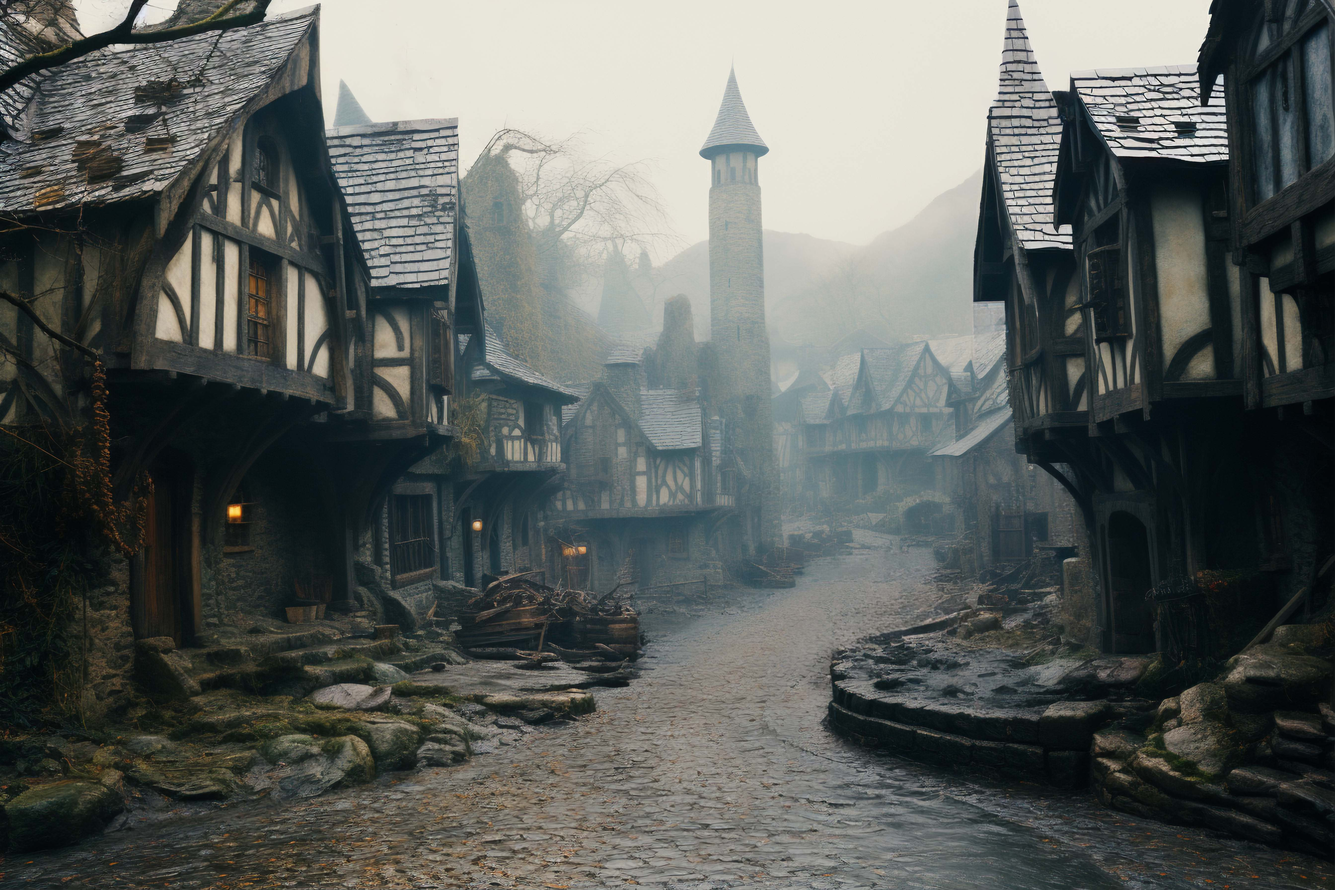
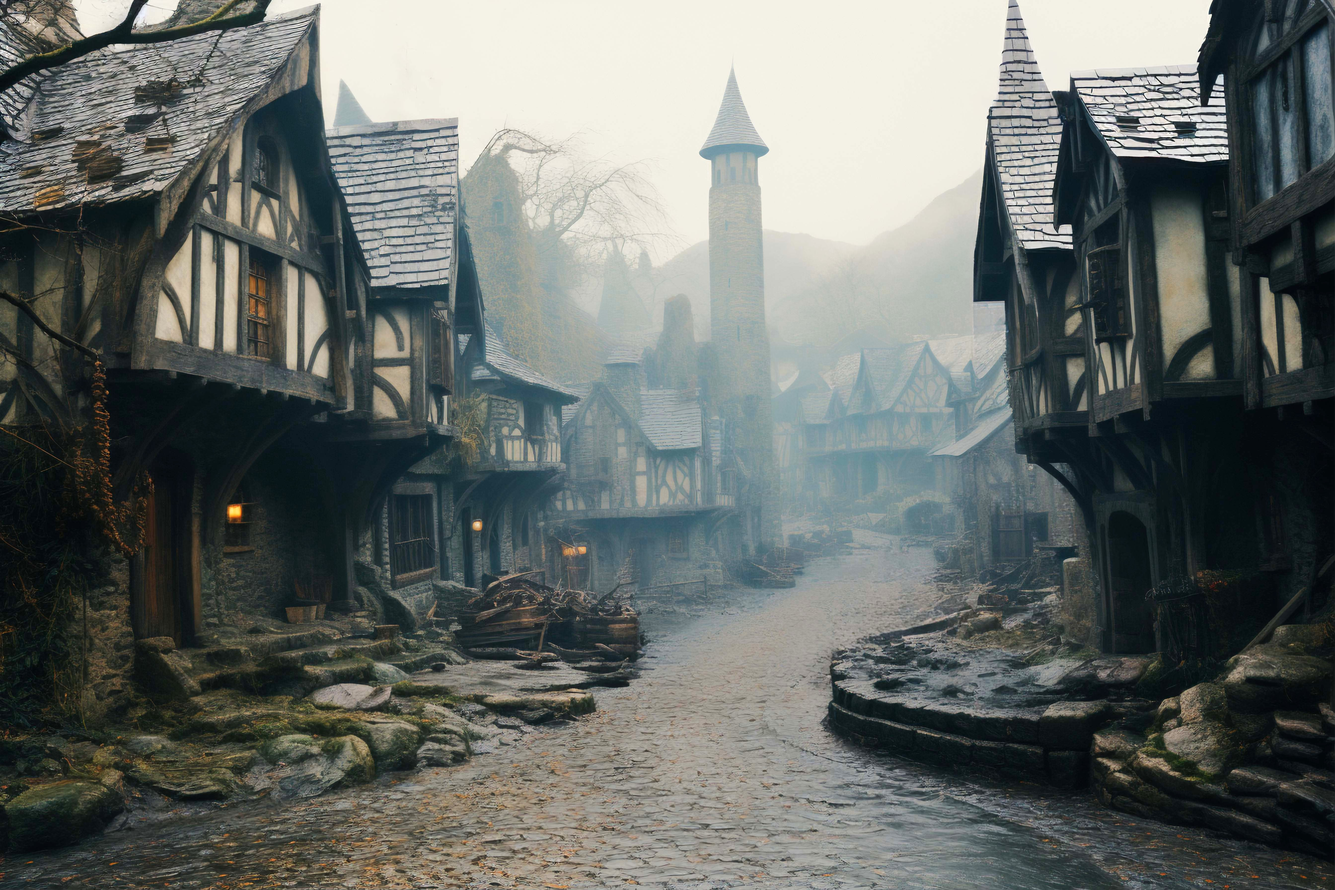
Added Character menu andthematic webpage background

diff --git a/streamlit_app.py b/streamlit_app.py
@@ -11,6 +11,7 @@ from orchestrator.story import STARTING_STATE
 
 
 PLAYER_BG_PATH = Path("UI-Assets/town-square.jpg")
+APP_BG_PATH = Path("UI-Assets/FantasyPort.jpg")
 
 
 def _parse_keys(raw: str) -> List[str]:
@@ -65,30 +66,129 @@ def _inject_player_background(image_path: Path) -> None:
     st.markdown(
         f"""
         <style>
+          @import url('https://fonts.googleapis.com/css2?family=Tangerine:wght@400;700&display=swap');
+
           :root {{
             --player-bg: url("data:{mime};base64,{encoded}");
           }}
 
-          .player-tab {{
-            background-image: linear-gradient(180deg, rgba(9, 12, 18, 0.75), rgba(9, 12, 18, 0.45)), var(--player-bg);
-            background-size: cover;
-            background-position: center;
-            background-repeat: no-repeat;
-            border-radius: 14px;
-            padding: 1.25rem 1.5rem 1.5rem;
-            min-height: 60vh;
+          .block-container {{
+            max-width: 1600px;
+            padding-left: 2.25rem;
+            padding-right: 2.25rem;
           }}
 
-          .player-tab [data-testid="stChatMessage"] {{
+          .tangerine-regular {{
+            font-family: "Tangerine", cursive;
+            font-weight: 400;
+            font-style: normal;
+          }}
+
+          .tangerine-bold {{
+            font-family: "Tangerine", cursive;
+            font-weight: 700;
+            font-style: normal;
+          }}
+
+          .hero-caption {{
+            text-align: center;
+            margin-top: -0.35rem;
+            margin-bottom: 1.25rem;
+            color: rgba(243, 239, 230, 0.8);
+          }}
+
+          [data-testid="stTabs"] [role="tablist"] {{
+            justify-content: center;
+          }}
+
+          [data-testid="stChatMessage"] {{
             background: rgba(8, 10, 14, 0.55);
             border-radius: 12px;
             padding: 0.15rem 0.85rem;
           }}
 
-          [data-testid="stChatInput"] textarea {{
-            background: rgba(10, 12, 18, 0.65);
+          div[data-testid="stVerticalBlock"]:has(#character-image-anchor) {{
+            position: relative;
+          }}
+
+          div[data-testid="stVerticalBlock"]:has(#character-image-anchor)
+            div[data-testid="stElementContainer"]:has(#character-image-anchor) {{
+            display: none;
+          }}
+
+          div[data-testid="stVerticalBlock"]:has(#character-image-anchor)
+            div[data-testid="stElementContainer"]:has(#character-image-anchor)
+            + div[data-testid="stElementContainer"] {{
+            position: absolute;
+            top: 0.6rem;
+            right: 0.6rem;
+            opacity: 0;
+            pointer-events: none;
+            transition: opacity 0.2s ease;
+            z-index: 5;
+          }}
+
+          div[data-testid="stVerticalBlock"]:has(#character-image-anchor):has(div[data-testid="stImage"]:hover)
+            div[data-testid="stElementContainer"]:has(#character-image-anchor)
+            + div[data-testid="stElementContainer"],
+          div[data-testid="stVerticalBlock"]:has(#character-image-anchor):has(div[data-testid="stButton"]:hover)
+            div[data-testid="stElementContainer"]:has(#character-image-anchor)
+            + div[data-testid="stElementContainer"] {{
+            opacity: 1;
+            pointer-events: auto;
+            transition-delay: 0.2s;
+          }}
+
+          div[data-testid="stVerticalBlock"]:has(#character-image-anchor)
+            div[data-testid="stElementContainer"]:has(#character-image-anchor)
+            + div[data-testid="stElementContainer"] > div[data-testid="stButton"] > button {{
+            white-space: nowrap;
+            padding: 0.35rem 0.7rem;
+            min-width: 0;
+            width: auto;
+            font-size: 0.8rem;
+            line-height: 1.1;
+            border-radius: 999px;
+            background: rgba(9, 12, 18, 0.85);
+            border: 1px solid rgba(255, 255, 255, 0.2);
             color: #f3efe6;
-            border: 1px solid rgba(255, 255, 255, 0.12);
+            box-shadow: 0 6px 16px rgba(0, 0, 0, 0.35);
+          }}
+        </style>
+        """,
+        unsafe_allow_html=True,
+    )
+
+
+def _inject_app_background(image_path: Path) -> None:
+    try:
+        data = image_path.read_bytes()
+    except OSError:
+        st.warning(f"App background image not found at {image_path.as_posix()}")
+        return
+
+    suffix = image_path.suffix.lower()
+    mime = "image/jpeg"
+    if suffix == ".png":
+        mime = "image/png"
+    elif suffix == ".webp":
+        mime = "image/webp"
+
+    encoded = base64.b64encode(data).decode("ascii")
+    st.markdown(
+        f"""
+        <style>
+          :root {{
+            --app-bg: url("data:{mime};base64,{encoded}");
+          }}
+
+          body,
+          .stApp,
+          div[data-testid="stAppViewContainer"] {{
+            background-image: var(--app-bg);
+            background-size: cover;
+            background-position: center;
+            background-repeat: no-repeat;
           }}
         </style>
         """,
@@ -97,9 +197,17 @@ def _inject_player_background(image_path: Path) -> None:
 
 
 def main() -> None:
-    st.set_page_config(page_title="Dungeon Master's Companion", layout="centered")
-    st.title("Dungeon Master's Companion")
-    st.caption("Describe your character's actions. The Dungeon Master responds and advances the story.")
+    st.set_page_config(page_title="The Dungeon Master's Companion", layout="wide")
+    st.markdown(
+        '<h1 class="tangerine-bold" '
+        'style="font-size:70px; text-align:center; margin-bottom:0.25rem; font-family:\'Tangerine\', cursive;">'
+        "The Dungeon Master's Companion</h1>",
+        unsafe_allow_html=True,
+    )
+    st.markdown(
+        '<div class="hero-caption">Describe your character\'s actions. The Dungeon Master responds and advances the story.</div>',
+        unsafe_allow_html=True,
+    )
 
     with st.sidebar:
         st.header("Session")
@@ -128,24 +236,34 @@ def main() -> None:
         _initialize_session(model, keys, starting_state)
 
     _inject_player_background(PLAYER_BG_PATH)
+    _inject_app_background(APP_BG_PATH)
 
     orchestrator = _get_orchestrator()
-    messages: List[Dict[str, str]] = st.session_state.get("messages", [])
 
     play_tab, dm_tab = st.tabs(["Player View", "DM Tools"])
 
     with play_tab:
-        st.markdown('<div class="player-tab">', unsafe_allow_html=True)
-        for message in messages:
-            with st.chat_message(message["role"]):
-                st.markdown(message["content"])
+        st.markdown('<div id="play-layout-anchor"></div>', unsafe_allow_html=True)
+        spacer_col, chat_col, character_col = st.columns([1, 2.4, 1], gap="large")
 
-        player_input = st.chat_input("Describe what your character does...")
-        if player_input:
-            st.session_state.messages.append({"role": "user", "content": player_input})
-            with st.chat_message("user"):
-                st.markdown(player_input)
-            with st.chat_message("assistant"):
+        with chat_col:
+            st.image(PLAYER_BG_PATH, use_container_width=True)
+            messages_container = st.container()
+            with messages_container:
+                for message in st.session_state.get("messages", []):
+                    with st.chat_message(message["role"]):
+                        st.markdown(message["content"])
+
+            with st.form("chat_form", clear_on_submit=True):
+                player_input = st.text_area(
+                    "Describe what your character does...",
+                    height=90,
+                    label_visibility="collapsed",
+                )
+                submitted = st.form_submit_button("Send")
+
+            if submitted and player_input.strip():
+                st.session_state.messages.append({"role": "user", "content": player_input})
                 with st.spinner("The Dungeon Master is thinking..."):
                     try:
                         turn = orchestrator.run_turn(player_input)
@@ -154,9 +272,50 @@ def main() -> None:
                     except Exception as exc:
                         response = "The Dungeon Master is unavailable right now."
                         st.error(f"Failed to generate a response: {exc}")
-                st.markdown(response)
-            st.session_state.messages.append({"role": "assistant", "content": response})
-        st.markdown("</div>", unsafe_allow_html=True)
+                st.session_state.messages.append({"role": "assistant", "content": response})
+                st.rerun()
+
+        with character_col:
+            st.subheader("Character")
+            image_container = st.container()
+            with image_container:
+                character_image = st.session_state.get("character_image_upload")
+                if character_image is None:
+                    character_image = st.file_uploader(
+                    "Character image",
+                    type=["png", "jpg", "jpeg", "webp"],
+                    key="character_image_upload",
+                )
+                if character_image:
+                    st.markdown('<div id="character-image-anchor"></div>', unsafe_allow_html=True)
+                    if st.button("Reupload image", key="character_image_reupload"):
+                        st.session_state.character_image_upload = None
+                        st.rerun()
+                    st.image(character_image, use_container_width=True)
+
+            description_default = st.session_state.get("character_description", "")
+            description = st.text_area(
+                "Character description",
+                value=description_default,
+                height=160,
+                key="character_description",
+            )
+            inventory_default = st.session_state.get("character_inventory", "")
+            st.text_area(
+                "Inventory",
+                value=inventory_default,
+                height=140,
+                placeholder="One item per line",
+                key="character_inventory",
+            )
+            stats_default = st.session_state.get("character_stats", "")
+            st.text_area(
+                "Character stats",
+                value=stats_default,
+                height=140,
+                placeholder="e.g., STR 14, DEX 12, CON 13",
+                key="character_stats",
+            )
 
     with dm_tab:
         st.subheader("Campaign Status")
